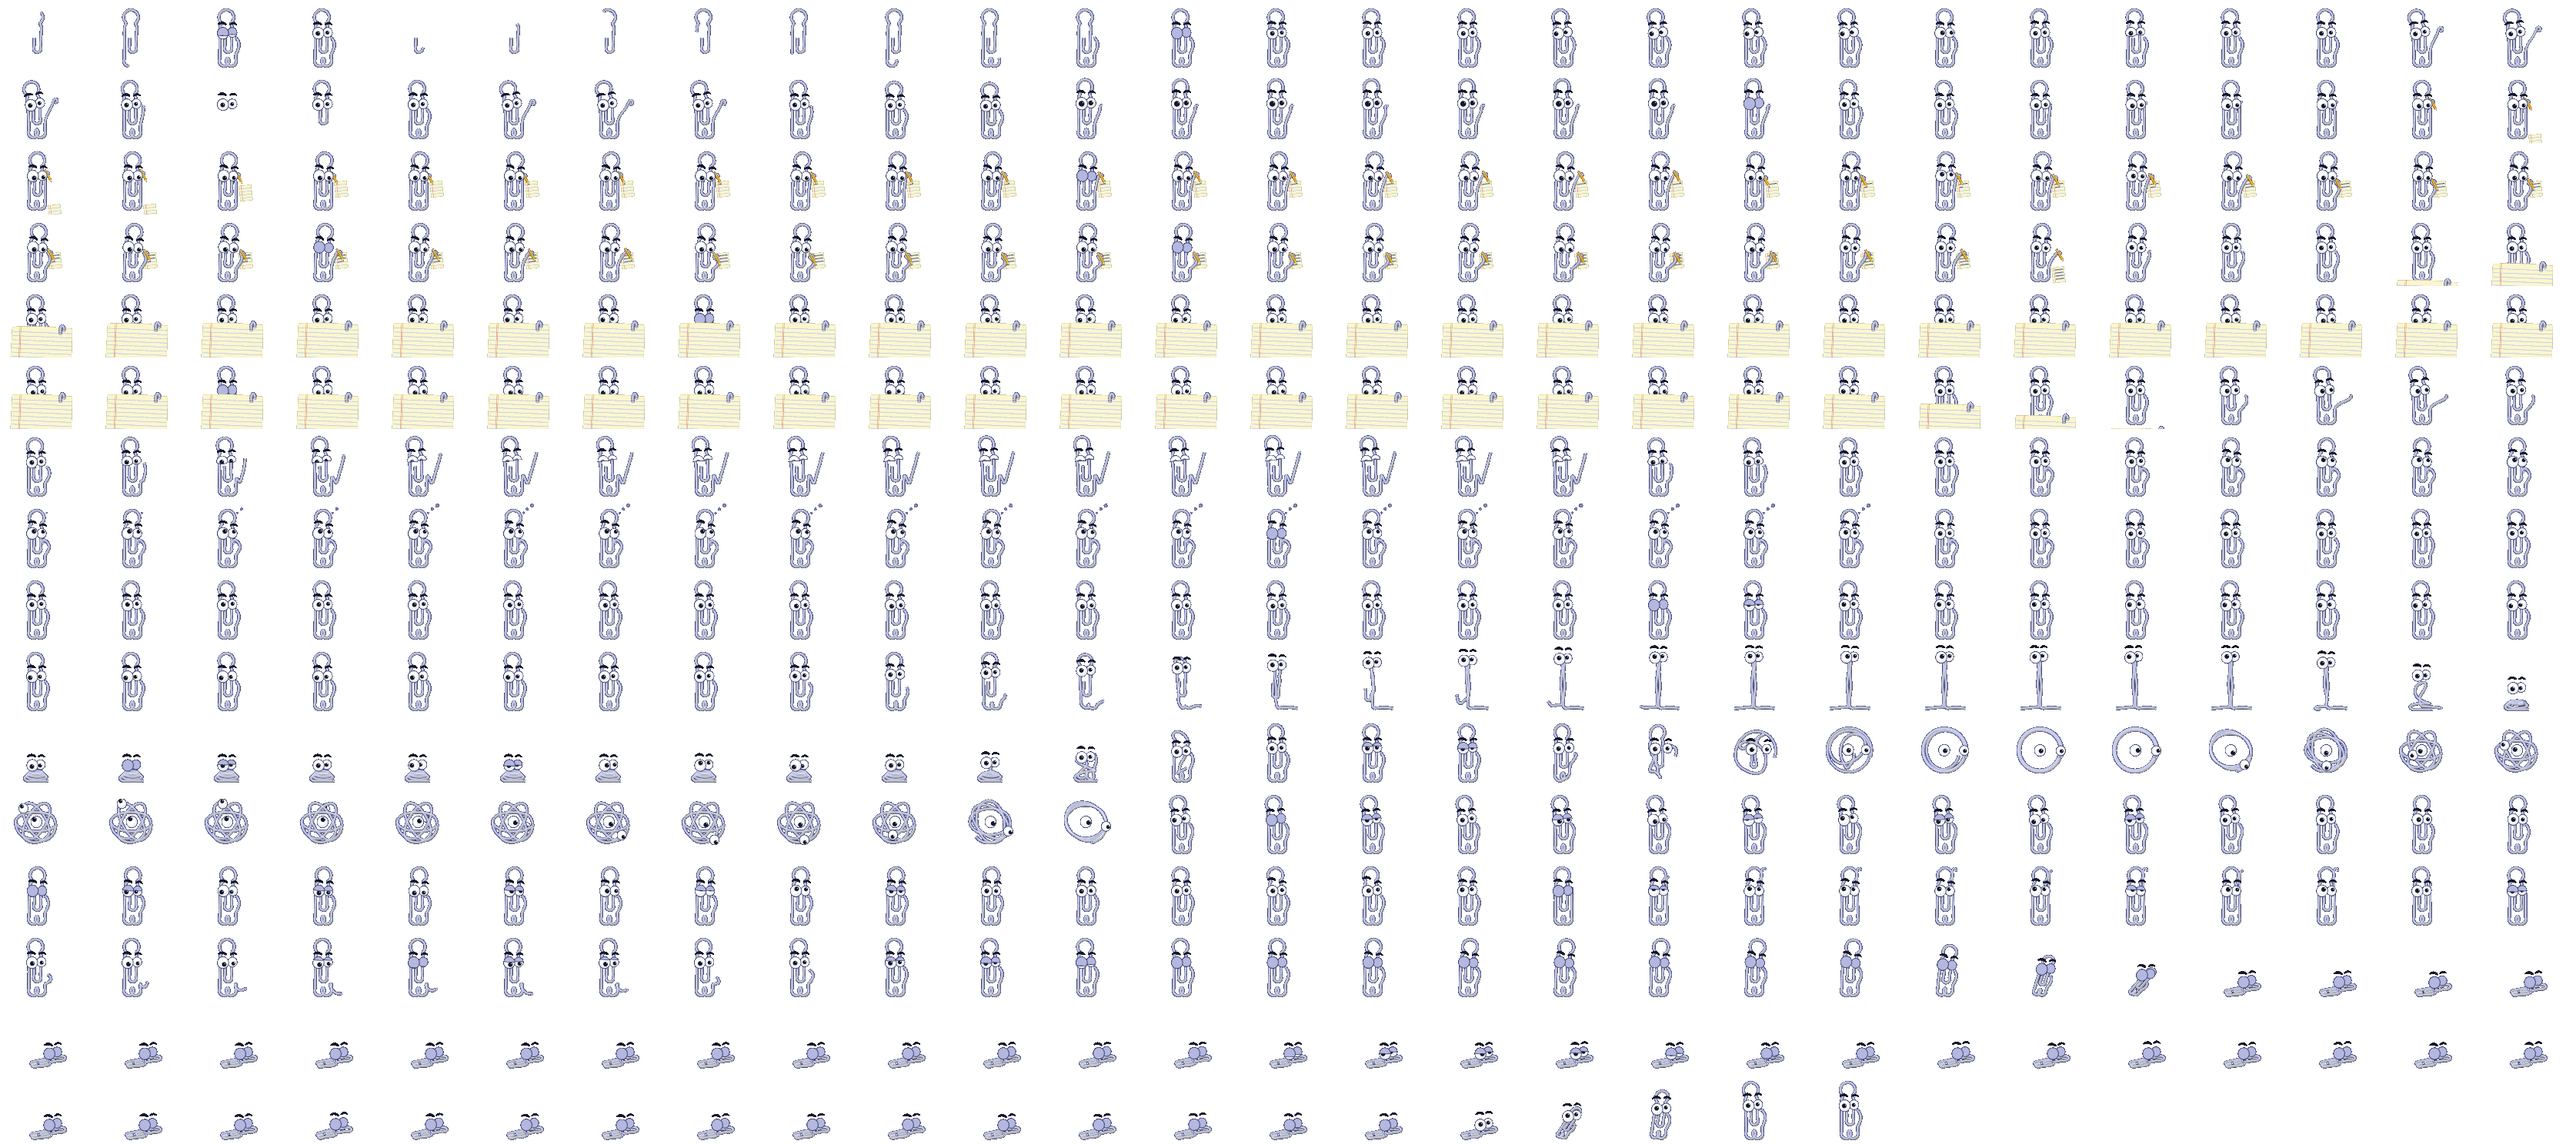
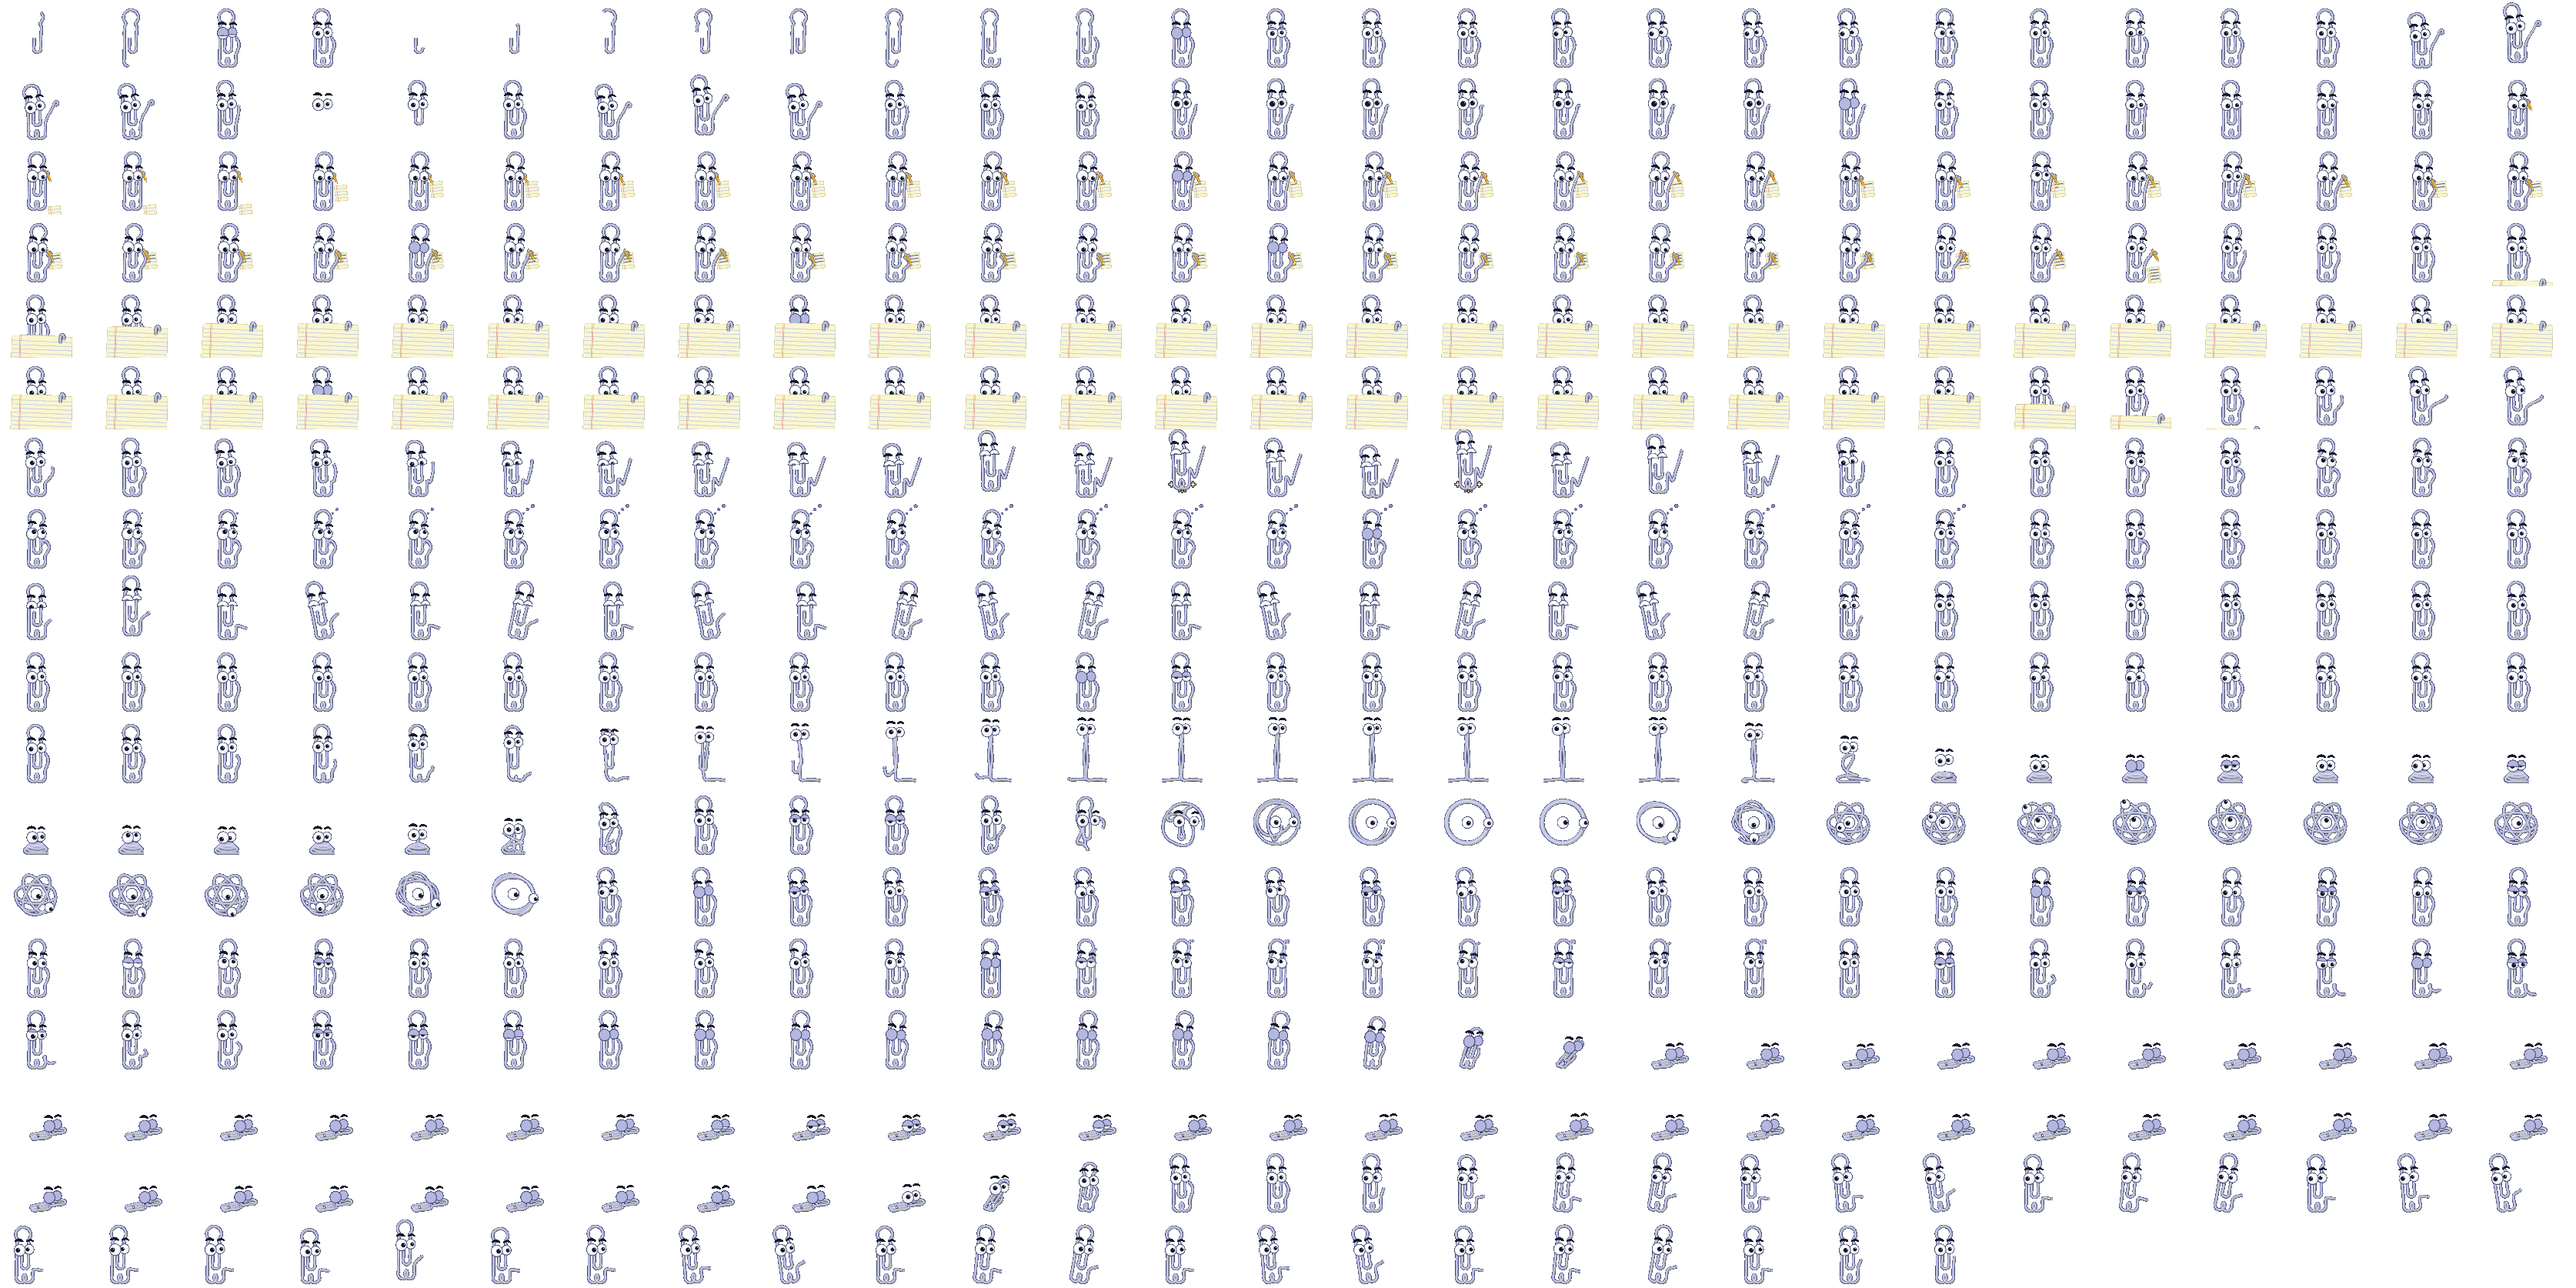
Swap in the round 2 pack: hops, Victory and the waddle
Greeting and Congratulate are the jumping versions from the round 2 lab,
Victory is new (after Fix all) and IdleWaddle joins the idles. 20
animations, 124 x 93, the other 16 unchanged pixel for pixel. Tests pin
the new four by pixel hash.

Changed region(s): [[0.0, 0.0, 0.994, 1.0], [0.1243, 0.0309, 0.1553, 0.0618]]

diff --git a/tests/clippee-pack.test.ts b/tests/clippee-pack.test.ts
@@ -1,9 +1,12 @@
+import { createHash } from 'node:crypto';
 import { readFileSync } from 'node:fs';
 import { resolve } from 'node:path';
+import { inflateSync } from 'node:zlib';
 import { afterEach, expect, it, vi } from 'vitest';
 import { Agent } from '../src/character/Agent';
 import { DEFAULT_PACK, loadPack } from '../src/character/packLoader';
 import type { LoadedPack, Pack } from '../src/character/types';
+import { GREETING_WAVE_FRAME } from '../src/content/presence';
 
 const dir = resolve(__dirname, '../src/packs/clippee');
 const data = JSON.parse(readFileSync(resolve(dir, 'pack.json'), 'utf8')) as Pack;
@@ -21,7 +24,7 @@ it('ships every animation the extension plays by name', () => {
   // The names in src/content/index.ts and src/character/Agent.ts, plus Thinking
   // for fix drafts. A missing one fails silently at runtime: he just stands there.
   const played = ['Show', 'Hide', 'RestPose', 'Greeting', 'GetAttention', 'Writing',
-    'CheckingSomething', 'Explain', 'Congratulate', 'Thinking'];
+    'CheckingSomething', 'Explain', 'Congratulate', 'Thinking', 'Victory'];
   for (const name of played) expect(data.animations[name], name).toBeDefined();
   expect(Object.keys(data.animations).filter((n) => n.startsWith('Idle')).length).toBeGreaterThanOrEqual(8);
   expect(DEFAULT_PACK).toBe('clippee');
@@ -82,4 +85,81 @@ it('falls back to Clippee when saved settings name a pack that no longer ships',
   const loaded = await loadPack('clippy');
   expect(loaded.name).toBe('clippee');
   expect(loaded.spriteUrl).toContain('src/packs/clippee/map.png');
+});
+
+/**
+ * The sheet as RGBA. It is an 8-bit palette PNG (the exporter writes one when
+ * the art fits 255 colours), so this is the whole decoder that format needs.
+ */
+function decodeSheet(file: Buffer): { w: number; rgba: Uint8Array } {
+  let at = 8;
+  let w = 0, h = 0;
+  let palette: Uint8Array = new Uint8Array(0), alpha: Uint8Array = new Uint8Array(0);
+  const idat: Buffer[] = [];
+  while (at < file.length) {
+    const len = file.readUInt32BE(at), type = file.toString('latin1', at + 4, at + 8), body = file.subarray(at + 8, at + 8 + len);
+    if (type === 'IHDR') {
+      w = body.readUInt32BE(0); h = body.readUInt32BE(4);
+      expect([body[8], body[9]]).toEqual([8, 3]);
+    }
+    if (type === 'PLTE') palette = body;
+    if (type === 'tRNS') alpha = body;
+    if (type === 'IDAT') idat.push(body);
+    at += 12 + len;
+  }
+  const raw = inflateSync(Buffer.concat(idat));
+  const px = new Uint8Array(w * h);
+  for (let y = 0; y < h; y++) {
+    const filter = raw[y * (w + 1)]!, row = raw.subarray(y * (w + 1) + 1, (y + 1) * (w + 1));
+    for (let x = 0; x < w; x++) {
+      const a = x > 0 ? px[y * w + x - 1]! : 0, b = y > 0 ? px[(y - 1) * w + x]! : 0, c = x > 0 && y > 0 ? px[(y - 1) * w + x - 1]! : 0;
+      const pred = filter === 1 ? a : filter === 2 ? b : filter === 3 ? (a + b) >> 1
+        : filter === 4 ? (Math.abs(b - c) <= Math.abs(a - c) && Math.abs(b - c) <= Math.abs(a + b - 2 * c) ? (Math.abs(a - c) <= Math.abs(a + b - 2 * c) ? a : b) : c) : 0;
+      px[y * w + x] = (row[x]! + pred) & 255;
+    }
+  }
+  const rgba = new Uint8Array(w * h * 4);
+  for (let i = 0; i < px.length; i++) {
+    const k = px[i]!, o = k < alpha.length ? alpha[k]! : 255;
+    if (o === 0) continue;
+    rgba.set([palette[k * 3]!, palette[k * 3 + 1]!, palette[k * 3 + 2]!, o], i * 4);
+  }
+  return { w, rgba };
+}
+
+/** One animation's frames, pixel for pixel, as a short hash. */
+let decoded: ReturnType<typeof decodeSheet> | undefined;
+function fingerprint(name: string): string {
+  decoded ??= decodeSheet(png);
+  const { w: sw, rgba } = decoded;
+  const [fw, fh] = data.framesize;
+  const hash = createHash('sha256');
+  for (const frame of data.animations[name]!.frames) {
+    const cell = frame.images?.[0];
+    if (!cell) { hash.update('blank'); continue; }
+    for (let y = cell[1]; y < cell[1] + fh; y++) hash.update(rgba.subarray((y * sw + cell[0]) * 4, (y * sw + cell[0] + fw) * 4));
+  }
+  return hash.digest('hex').slice(0, 16);
+}
+
+it('carries the round 2 jumps: the hopping Congratulate and Greeting, Victory and the waddle', () => {
+  // Hashes of the j family's own export (anim-r2/d/j/pack). Each check fails if
+  // a different drawing of that animation ships.
+  expect(fingerprint('Congratulate')).toBe('9f98f99aa72e9763');
+  expect(fingerprint('Greeting')).toBe('1ff4ea3ed0119334');
+  expect(fingerprint('Victory')).toBe('45524ba99da96657');
+  expect(fingerprint('IdleWaddle')).toBe('f66f6552cec63e10');
+  expect(data.framesize).toEqual([124, 93]);
+});
+
+it('greets from the wave after an entrance, where he is already drawn in', () => {
+  const frames = data.animations.Greeting!.frames;
+  expect(frames[0]!.images).toBeUndefined(); // the plain Greeting starts from nothing
+  expect(frames[GREETING_WAVE_FRAME]!.images).toBeDefined();
+});
+
+it('lets the waddle join the idles', () => {
+  const agent = new Agent(pack);
+  expect(agent.animations().filter((n) => n.startsWith('Idle'))).toContain('IdleWaddle');
+  agent.destroy();
 });
